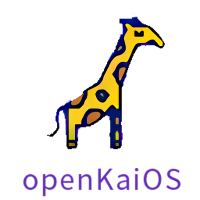
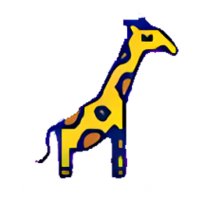
Because of the trademark infringement, we have to change our organization name and domain.

Changed region(s): [[0.09, 0.06, 0.93, 0.99]]

diff --git a/source/_posts/aboutus.md b/source/_posts/aboutus.md
@@ -23,4 +23,4 @@ title: 关于我们
 
 "Deploy Hexo workflow"由 [LiarOnce](https://github.com/LiarOnce)提供
 
-openkaios.top 由[miangou](https://github.com/miangou)
+openGiraffes.top 现在由 [LiarOnce](https://github.com/LiarOnce)提供
